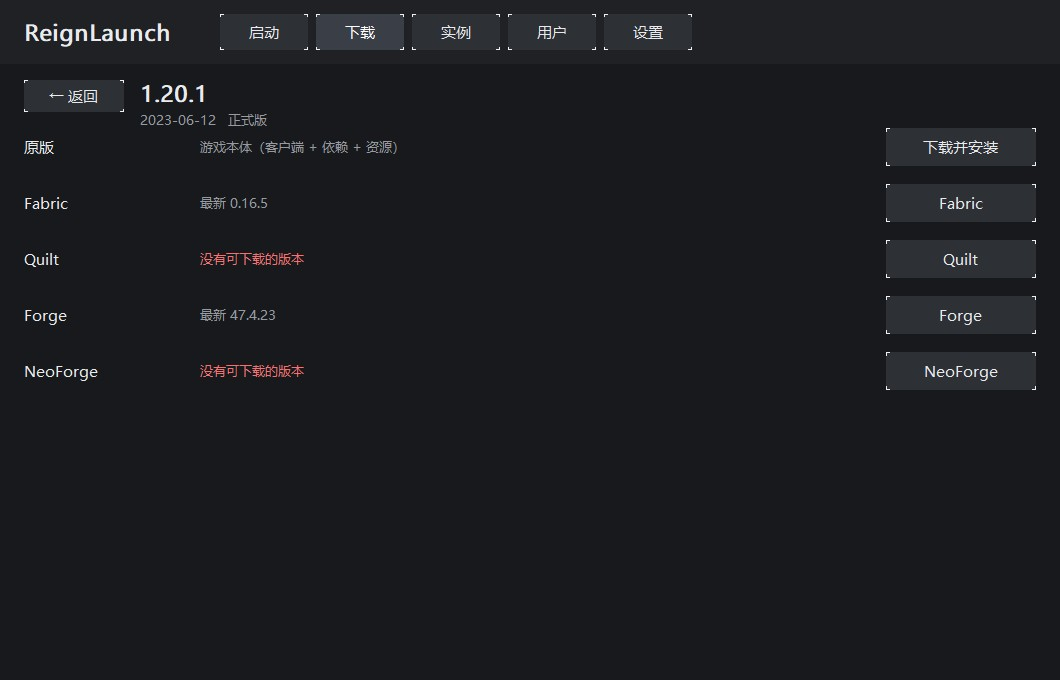
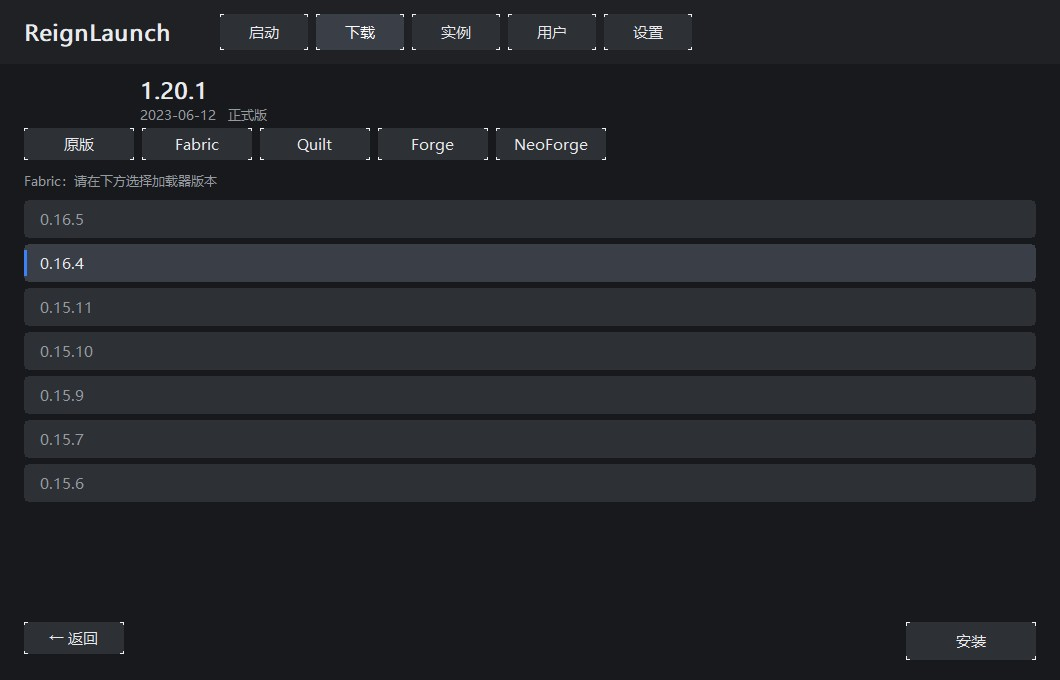
feat: detail page with loader version selection (vanilla = no loader)

diff --git a/src/ReignLaunch.cpp b/src/ReignLaunch.cpp
@@ -127,7 +127,7 @@ static HWND hLblJava, hEdJava, hBtnAutoJava, hBtnBrowseJava, hBtnJavaDrop;
 static HWND hLblMem, hEdMem, hEdName, hLblName, hBtnSave, hBtnIso, hEdThreads, hEdJvm, hEdGame, hBtnSource, hBtnFull;
 static HWND hBtnUpdate;
 static HWND hBtnDlVanilla, hBtnDlFabric, hBtnDlQuilt, hBtnDlForge, hBtnDlNeo;
-static HWND hBtnDlF0, hBtnDlF1, hBtnDlF2, hBtnDlF3, hEdSearch, hBtnDlBack;
+static HWND hBtnDlF0, hBtnDlF1, hBtnDlF2, hBtnDlF3, hEdSearch, hBtnDlBack, hBtnDlInstall;
 
 struct McVer { std::string id, type, url, date; };
 static std::vector<McVer> g_mcVers;
@@ -141,6 +141,11 @@ static std::atomic<int> g_ldState[4] = { {0}, {0}, {0}, {0} };
 static std::wstring g_ldVer[4];
 static void FetchLoadersThread();
 static std::string g_dlDetailMc;
+static int g_dlLoader = 0;              // 0=原版 1=Fabric 2=Quilt 3=Forge 4=NeoForge
+static std::vector<std::string> g_ldVers;   // 当前加载器的可选版本
+static int g_ldSel = -1;
+static std::atomic<int> g_ldVersState{ 0 }; // 0未取 1取中 2成功 3失败
+static void FetchLoaderVersThread();
 static void RebuildDlView();
 static void FetchManifestThread();
 static bool IsAprilFools(const McVer& v);
@@ -1682,14 +1687,17 @@ static void LayoutControls() {
             MoveWindow(hBtnDlF3, tx0, ty0, tw, Scale(32), TRUE);
             MoveWindow(hEdSearch, g_ly.content.right - Scale(24) - Scale(240), ty0, Scale(240), Scale(30), TRUE);
 
-            int dbx = g_ly.content.right - Scale(24) - Scale(150);
-            int dby0 = g_ly.content.top + Scale(64);
-            MoveWindow(hBtnDlVanilla, dbx, dby0 + Scale(56) * 0, Scale(150), Scale(38), TRUE);
-            MoveWindow(hBtnDlFabric,  dbx, dby0 + Scale(56) * 1, Scale(150), Scale(38), TRUE);
-            MoveWindow(hBtnDlQuilt,   dbx, dby0 + Scale(56) * 2, Scale(150), Scale(38), TRUE);
-            MoveWindow(hBtnDlForge,   dbx, dby0 + Scale(56) * 3, Scale(150), Scale(38), TRUE);
-            MoveWindow(hBtnDlNeo,     dbx, dby0 + Scale(56) * 4, Scale(150), Scale(38), TRUE);
-            MoveWindow(hBtnDlBack, g_ly.content.left + Scale(24), g_ly.content.top + Scale(16), Scale(100), Scale(32), TRUE);
+            int dby = g_ly.content.top + Scale(64);
+            int dbw = Scale(110), dbg = Scale(8);
+            int dbx = g_ly.content.left + Scale(24);
+            MoveWindow(hBtnDlVanilla, dbx, dby, dbw, Scale(32), TRUE); dbx += dbw + dbg;
+            MoveWindow(hBtnDlFabric,  dbx, dby, dbw, Scale(32), TRUE); dbx += dbw + dbg;
+            MoveWindow(hBtnDlQuilt,   dbx, dby, dbw, Scale(32), TRUE); dbx += dbw + dbg;
+            MoveWindow(hBtnDlForge,   dbx, dby, dbw, Scale(32), TRUE); dbx += dbw + dbg;
+            MoveWindow(hBtnDlNeo,     dbx, dby, dbw, Scale(32), TRUE);
+            MoveWindow(hBtnDlInstall, g_ly.content.right - Scale(24) - Scale(130),
+                       g_ly.content.bottom - Scale(58), Scale(130), Scale(38), TRUE);
+            MoveWindow(hBtnDlBack, g_ly.content.left + Scale(24), g_ly.content.bottom - Scale(58), Scale(100), Scale(32), TRUE);
 
         }
     }
@@ -1702,6 +1710,7 @@ static void SyncDownloadControls() {
     int showDl  = (onDl && !g_dlDetail) ? SW_SHOW : SW_HIDE;
     int showDet = (onDl &&  g_dlDetail) ? SW_SHOW : SW_HIDE;
     ShowWindow(hBtnDlBack, showDet);
+    ShowWindow(hBtnDlInstall, showDet);
     ShowWindow(hBtnDlF0, showDl);
     ShowWindow(hBtnDlF1, showDl);
     ShowWindow(hBtnDlF2, showDl);
@@ -2219,6 +2228,40 @@ static void InstallVersionThread(std::string id, std::string url) {
         PostMessageW(g_hwnd, WM_APP_DONE, 0, 0);
     }
 }
+// ---------------- 详情页：加载器版本列表 ----------------
+static void FetchLoaderVersThread() {
+    int kind = g_dlLoader;
+    g_ldVersState = 1;
+    g_ldVers.clear();
+    g_ldSel = -1;
+
+    std::string mc = g_dlDetailMc;
+    std::string url;
+    if (kind == 1) url = "https://bmclapi2.bangbang93.com/fabric-meta/v2/versions/loader/" + mc;
+    else if (kind == 2) url = "https://meta.quiltmc.org/v3/versions/loader/" + mc;
+    else if (kind == 3) url = "https://bmclapi2.bangbang93.com/forge/minecraft/" + mc;
+    else if (kind == 4) url = "https://bmclapi2.bangbang93.com/neoforge/list/" + mc;
+    else { g_ldVersState = 2; if (g_hwnd) PostMessageW(g_hwnd, WM_APP_DONE, 0, 0); return; }
+
+    std::vector<unsigned char> d;
+    std::string e;
+    if (!HttpRequest(url, "GET", "", "", d, e)) {
+        g_ldVersState = 3;
+        if (g_hwnd) PostMessageW(g_hwnd, WM_APP_DONE, 0, 0);
+        return;
+    }
+    json j = json::parse(std::string(d.begin(), d.end()), nullptr, false);
+    if (j.is_array()) {
+        for (auto& x : j) {
+            std::string v;
+            if (kind == 1 || kind == 2) v = x["loader"].value("version", std::string());
+            else v = x.value("version", std::string());
+            if (!v.empty()) g_ldVers.push_back(v);
+        }
+    }
+    g_ldVersState = 2;   // 2=成功（空列表由绘制层显示"没有可下载的版本"）
+    if (g_hwnd) PostMessageW(g_hwnd, WM_APP_DONE, 0, 0);
+}
 // ---------------- 详情页：加载器可用性 ----------------
 static void FetchLoadersThread() {
     std::string mc = g_dlDetailMc;
@@ -2325,7 +2368,7 @@ static std::string HttpGetString(const std::string& url, std::string& err) {
 }
 
 // Fabric / Quilt：拿 loader 列表 -> profile json -> 落到 versions/<id>
-static void InstallMetaLoaderThread(std::string mc, bool quilt) {
+static void InstallMetaLoaderThread(std::string mc, bool quilt, std::string wantVer = "") {
     g_status = L"正在获取 " + std::wstring(quilt ? L"Quilt" : L"Fabric") + L" 加载器列表…";
 
     std::string url = quilt
@@ -2339,7 +2382,8 @@ static void InstallMetaLoaderThread(std::string mc, bool quilt) {
     json j = json::parse(body, nullptr, false);
     if (!j.is_array() || j.empty()) { g_status = L"该版本没有可用的加载器"; if (g_hwnd) PostMessageW(g_hwnd, WM_APP_DONE, 0, 0); return; }
 
-    std::string lv = j[0]["loader"].value("version", std::string());
+    std::string lv = wantVer;
+    if (lv.empty()) lv = j[0]["loader"].value("version", std::string());
     if (lv.empty()) { g_status = L"解析加载器版本失败"; if (g_hwnd) PostMessageW(g_hwnd, WM_APP_DONE, 0, 0); return; }
 
     g_status = L"正在获取 profile（" + U8ToW(lv) + L"）…";
@@ -2372,7 +2416,7 @@ static void InstallMetaLoaderThread(std::string mc, bool quilt) {
 }
 
 // Forge / NeoForge：下载 installer 并执行 --installClient
-static void InstallInstallerThread(std::string mc, bool neo) {
+static void InstallInstallerThread(std::string mc, bool neo, std::string wantVer = "") {
     std::string listUrl = neo
         ? "https://bmclapi2.bangbang93.com/neoforge/list/" + mc
         : "https://bmclapi2.bangbang93.com/forge/minecraft/" + mc;
@@ -2874,42 +2918,80 @@ static void PaintMain(HDC dc, int w, int h) {
     }
     else if (g_page == PAGE_DOWNLOAD) {
         if (g_dlDetail) {
-            if (g_dlSel >= 0 && g_dlSel < (int)g_dlView.size()) {
-                const McVer& v = g_mcVers[g_dlView[g_dlSel]];
-                int x = g_ly.content.left + Scale(140);
-                int y = g_ly.content.top + Scale(12);
-
-                RECT t1 = { x, y, g_ly.content.right - Scale(200), y + Scale(34) };
-                DrawTextIn(dc, U8ToW(v.id), t1, C_TEXT, g_fTitle);
-
-                std::wstring sub = U8ToW(v.date);
-                if (!sub.empty()) sub += L"   ";
-                sub += (v.type == "release") ? L"正式版" : (v.type == "snapshot") ? L"快照" :
-                       (v.type == "old_beta") ? L"远古 Beta" : L"远古 Alpha";
-                RECT t2 = { x, y + Scale(32), g_ly.content.right - Scale(200), y + Scale(56) };
-                DrawTextIn(dc, sub, t2, C_DIM, g_fSmall);
-
-                const wchar_t* names[5] = { L"原版", L"Fabric", L"Quilt", L"Forge", L"NeoForge" };
-                int baseY = g_ly.content.top + Scale(64);
-                for (int i = 0; i < 5; ++i) {
-                    int ry = baseY + Scale(56) * i;
-                    RECT nm = { g_ly.content.left + Scale(24), ry, g_ly.content.left + Scale(200), ry + Scale(38) };
-                    DrawTextIn(dc, names[i], nm, C_TEXT, g_fUi);
-
-                    RECT ir = { g_ly.content.left + Scale(200), ry, g_ly.content.right - Scale(200), ry + Scale(38) };
-                    if (i == 0) {
-                        DrawTextIn(dc, L"游戏本体（客户端 + 依赖 + 资源）", ir, C_DIM, g_fSmall);
-                    } else {
-                        int st = g_ldState[i - 1].load();
-                        std::wstring info = (st == 0) ? L"查询中…"
-                                          : (st == 1) ? (L"最新 " + g_ldVer[i - 1])
-                                          : L"没有可下载的版本";
-                        DrawTextIn(dc, info, ir, (st == 2) ? C_ERR : C_DIM, g_fSmall);
-                    }
-                }
-            } else {
-                RECT e = { g_ly.content.left + Scale(24), g_ly.content.top + Scale(60), g_ly.content.right - Scale(24), g_ly.content.top + Scale(100) };
+            if (g_dlSel < 0 || g_dlSel >= (int)g_dlView.size()) {
+                RECT e = { g_ly.content.left + Scale(24), g_ly.content.top + Scale(60),
+                           g_ly.content.right - Scale(24), g_ly.content.top + Scale(100) };
                 DrawTextIn(dc, L"未选中版本，点「返回」重新选择", e, C_DIM, g_fSmall);
+                return;
+            }
+
+            const McVer& v = g_mcVers[g_dlView[g_dlSel]];
+
+            // 标题
+            int hx = g_ly.content.left + Scale(140);
+            int hy = g_ly.content.top + Scale(10);
+            RECT t1 = { hx, hy, g_ly.content.right - Scale(24), hy + Scale(32) };
+            DrawTextIn(dc, U8ToW(v.id), t1, C_TEXT, g_fTitle);
+
+            std::wstring sub = U8ToW(v.date);
+            if (!sub.empty()) sub += L"   ";
+            sub += (v.type == "release") ? L"正式版" : (v.type == "snapshot") ? L"快照" :
+                   (v.type == "old_beta") ? L"远古 Beta" : L"远古 Alpha";
+            RECT t2 = { hx, hy + Scale(30), g_ly.content.right - Scale(24), hy + Scale(52) };
+            DrawTextIn(dc, sub, t2, C_DIM, g_fSmall);
+
+            // 加载器选择行（按钮是控件，这里只画提示）
+            const wchar_t* hint = (g_dlLoader == 0)
+                ? L"原版：不安装任何加载器"
+                : (g_dlLoader == 1) ? L"Fabric：请在下方选择加载器版本"
+                : (g_dlLoader == 2) ? L"Quilt：请在下方选择加载器版本"
+                : (g_dlLoader == 3) ? L"Forge：请在下方选择加载器版本"
+                                    : L"NeoForge：请在下方选择加载器版本";
+            RECT hr = { g_ly.content.left + Scale(24), g_ly.content.top + Scale(104),
+                        g_ly.content.right - Scale(24), g_ly.content.top + Scale(130) };
+            DrawTextIn(dc, hint, hr, C_DIM, g_fSmall);
+
+            // 版本列表
+            int listTop  = g_ly.content.top + Scale(136);
+            int listBot  = g_ly.content.bottom - Scale(70);
+
+            if (g_dlLoader == 0) {
+                RECT e = { g_ly.content.left + Scale(24), listTop + Scale(10),
+                           g_ly.content.right - Scale(24), listTop + Scale(46) };
+                DrawTextIn(dc, L"选中「原版」时不安装加载器，直接点右下角安装即可。", e, C_DIM, g_fSmall);
+            } else if (g_ldVersState.load() == 0 || g_ldVersState.load() == 1) {
+                RECT e = { g_ly.content.left + Scale(24), listTop + Scale(10),
+                           g_ly.content.right - Scale(24), listTop + Scale(46) };
+                DrawTextIn(dc, L"正在获取加载器版本…", e, C_DIM, g_fSmall);
+            } else if (g_ldVersState.load() == 3) {
+                RECT e = { g_ly.content.left + Scale(24), listTop + Scale(10),
+                           g_ly.content.right - Scale(24), listTop + Scale(46) };
+                DrawTextIn(dc, L"获取失败，检查网络后重试", e, C_ERR, g_fSmall);
+            } else if (g_ldVers.empty()) {
+                RECT e = { g_ly.content.left + Scale(24), listTop + Scale(10),
+                           g_ly.content.right - Scale(24), listTop + Scale(46) };
+                DrawTextIn(dc, L"没有可下载的版本", e, C_ERR, g_fSmall);
+            } else {
+                int itemH = Scale(44);
+                int yy = listTop - g_listScroll;
+                for (size_t i = 0; i < g_ldVers.size(); ++i) {
+                    RECT item = { g_ly.content.left + Scale(24), yy,
+                                  g_ly.content.right - Scale(24), yy + itemH - Scale(6) };
+                    if (item.bottom > listTop && item.top < listBot) {
+                        if (item.bottom > listBot) item.bottom = listBot;
+                        bool sel = ((int)i == g_ldSel);
+                        FillRoundRect(dc, item, 8, sel ? C_CARD_SEL : C_CARD);
+                        RECT tx = item; tx.left += Scale(16);
+                        DrawTextIn(dc, U8ToW(g_ldVers[i]), tx, sel ? C_TEXT : C_DIM, g_fUi);
+                        if (sel) {
+                            RECT bar = { item.left, item.top + Scale(6), item.left + Scale(3), item.bottom - Scale(6) };
+                            HBRUSH b = CreateSolidBrush(C_ACCENT2);
+                            FillRect(dc, &bar, b);
+                            DeleteObject(b);
+                        }
+                    }
+                    yy += itemH;
+                }
             }
             return;
         }
@@ -3229,7 +3311,7 @@ static LRESULT CALLBACK MainProc(HWND hwnd, UINT msg, WPARAM wp, LPARAM lp) {
         hBtnTabAbout    = MakeBtn(hwnd, L"关于", ID_TAB_ABOUT);
         hBtnTabInst     = MakeBtn(hwnd, L"实例", ID_TAB_INST);
         hBtnTabDl       = MakeBtn(hwnd, L"下载", ID_TAB_DL);
-        hBtnDlVanilla = MakeBtn(hwnd, L"下载并安装", ID_DL_VANILLA);
+        hBtnDlVanilla = MakeBtn(hwnd, L"原版", ID_DL_VANILLA);
         hBtnDlFabric  = MakeBtn(hwnd, L"Fabric",   ID_DL_FABRIC);
         hBtnDlQuilt   = MakeBtn(hwnd, L"Quilt",    ID_DL_QUILT);
         hBtnDlForge   = MakeBtn(hwnd, L"Forge",    ID_DL_FORGE);
@@ -3244,6 +3326,7 @@ static LRESULT CALLBACK MainProc(HWND hwnd, UINT msg, WPARAM wp, LPARAM lp) {
         SendMessageW(hEdSearch, WM_SETFONT, (WPARAM)g_fUi, TRUE);
         SendMessageW(hEdSearch, EM_SETCUEBANNER, 0, (LPARAM)L"搜索版本，如 1.20.1");
         hBtnDlBack    = MakeBtn(hwnd, L"← 返回", ID_DL_BACK);
+        hBtnDlInstall = MakeBtn(hwnd, L"安装", ID_DL_INSTALL);
 
         hBtnLaunch  = MakeBtn(hwnd, L"启动游戏", ID_BTN_LAUNCH);
         hBtnRefresh = MakeBtn(hwnd, L"刷新版本", ID_BTN_REFRESH);
@@ -3402,6 +3485,21 @@ static LRESULT CALLBACK MainProc(HWND hwnd, UINT msg, WPARAM wp, LPARAM lp) {
         }
 
         if (g_page == PAGE_DOWNLOAD) {
+            if (g_dlDetail) {
+                if (g_dlLoader > 0 && !g_ldVers.empty()) {
+                    int itemH0 = Scale(44);
+                    int top0 = g_ly.content.top + Scale(136);
+                    if (pt.y >= top0) {
+                        int idx0 = (pt.y - top0 + g_listScroll) / itemH0;
+                        if (idx0 >= 0 && idx0 < (int)g_ldVers.size()) {
+                            g_ldSel = idx0;
+                            g_status = L"已选择加载器版本：" + U8ToW(g_ldVers[idx0]);
+                            InvalidateRect(hwnd, nullptr, TRUE);
+                        }
+                    }
+                }
+                return 0;
+            }
             if (g_mcVersState.load() == 0) {
                 std::thread(FetchManifestThread).detach();
             } else if (g_mcVersState.load() == 2) {
@@ -3572,51 +3670,53 @@ static LRESULT CALLBACK MainProc(HWND hwnd, UINT msg, WPARAM wp, LPARAM lp) {
         }
 
         case ID_DL_VANILLA: case ID_DL_FABRIC: case ID_DL_QUILT:
-    case ID_DL_FORGE:   case ID_DL_NEO: {
-        if (g_dlSel < 0 || g_dlSel >= (int)g_dlView.size()) {
-            MessageBoxW(hwnd, L"请先在列表里选一个游戏版本。", L"下载", MB_OK | MB_ICONINFORMATION);
+        case ID_DL_FORGE:   case ID_DL_NEO: {
+            int id = (int)(wp & 0xFFFF);
+            int kind = (id == ID_DL_VANILLA) ? 0 : (id == ID_DL_FABRIC) ? 1
+                     : (id == ID_DL_QUILT) ? 2 : (id == ID_DL_FORGE) ? 3 : 4;
+            g_dlLoader = kind;
+            g_ldSel = -1;
+            g_ldVers.clear();
+            g_ldVersState = 0;
+            g_listScroll = 0;
+            if (kind > 0) std::thread(FetchLoaderVersThread).detach();
+            InvalidateRect(hwnd, nullptr, TRUE);
             break;
         }
-        {
-            int idchk = (int)(wp & 0xFFFF);
-            int ldi = (idchk == ID_DL_FABRIC) ? 0 : (idchk == ID_DL_QUILT) ? 1
-                    : (idchk == ID_DL_FORGE) ? 2 : (idchk == ID_DL_NEO) ? 3 : -1;
-            if (ldi >= 0 && g_ldState[ldi].load() != 1) {
-                MessageBoxW(hwnd, L"该版本没有可下载的加载器版本。", L"提示", MB_OK | MB_ICONINFORMATION);
+
+        case ID_DL_INSTALL: {
+            if (g_dlSel < 0 || g_dlSel >= (int)g_dlView.size()) {
+                MessageBoxW(hwnd, L"请先返回列表选择一个游戏版本。", L"下载", MB_OK | MB_ICONINFORMATION);
                 break;
             }
-        }
-        int realIdx = g_dlView[g_dlSel];
-        std::string mc = g_mcVers[realIdx].id;
-        std::string url = g_mcVers[realIdx].url;
-        int id = (int)(wp & 0xFFFF);
-        if (id == ID_DL_VANILLA) (void)url;
+            int realIdx = g_dlView[g_dlSel];
+            std::string mc  = g_mcVers[realIdx].id;
+            std::string url = g_mcVers[realIdx].url;
 
-        if (id == ID_DL_VANILLA) {
-            std::wstring cmsg = L"确定安装原版 " + U8ToW(mc) + L" 吗？";
-            if (MessageBoxW(hwnd, cmsg.c_str(), L"下载原版", MB_YESNO | MB_ICONQUESTION) != IDYES) break;
-            g_status = L"开始安装：" + U8ToW(mc);
-            std::thread(InstallVersionThread, mc, url).detach();
-        } else if (id == ID_DL_FABRIC) {
-            std::wstring cmsg = L"为 " + U8ToW(mc) + L" 安装 Fabric？\n会自动选最新加载器。";
-            if (MessageBoxW(hwnd, cmsg.c_str(), L"安装 Fabric", MB_YESNO | MB_ICONQUESTION) != IDYES) break;
-            std::thread(InstallMetaLoaderThread, mc, false).detach();
-        } else if (id == ID_DL_QUILT) {
-            std::wstring cmsg = L"为 " + U8ToW(mc) + L" 安装 Quilt？\n会自动选最新加载器。";
-            if (MessageBoxW(hwnd, cmsg.c_str(), L"安装 Quilt", MB_YESNO | MB_ICONQUESTION) != IDYES) break;
-            std::thread(InstallMetaLoaderThread, mc, true).detach();
-        } else if (id == ID_DL_FORGE) {
-            std::wstring cmsg = L"为 " + U8ToW(mc) + L" 安装 Forge？\n会下载并运行官方安装器，可能需要几分钟。";
-            if (MessageBoxW(hwnd, cmsg.c_str(), L"安装 Forge", MB_YESNO | MB_ICONQUESTION) != IDYES) break;
-            std::thread(InstallInstallerThread, mc, false).detach();
-        } else {
-            std::wstring cmsg = L"为 " + U8ToW(mc) + L" 安装 NeoForge？\n会下载并运行官方安装器，可能需要几分钟。";
-            if (MessageBoxW(hwnd, cmsg.c_str(), L"安装 NeoForge", MB_YESNO | MB_ICONQUESTION) != IDYES) break;
-            std::thread(InstallInstallerThread, mc, true).detach();
+            if (g_dlLoader == 0) {
+                std::wstring cmsg = L"安装原版 " + U8ToW(mc) + L"（不安装加载器）？";
+                if (MessageBoxW(hwnd, cmsg.c_str(), L"下载原版", MB_YESNO | MB_ICONQUESTION) != IDYES) break;
+                g_status = L"开始安装：" + U8ToW(mc);
+                std::thread(InstallVersionThread, mc, url).detach();
+            } else {
+                if (g_ldSel < 0 || g_ldSel >= (int)g_ldVers.size()) {
+                    MessageBoxW(hwnd, L"请先在列表里选择一个加载器版本。", L"提示", MB_OK | MB_ICONINFORMATION);
+                    break;
+                }
+                std::string lv = g_ldVers[g_ldSel];
+                std::wstring cmsg = L"为 " + U8ToW(mc) + L" 安装 " +
+                                    (g_dlLoader == 1 ? L"Fabric " : g_dlLoader == 2 ? L"Quilt " :
+                                     g_dlLoader == 3 ? L"Forge " : L"NeoForge ") +
+                                    U8ToW(lv) + L"？";
+                if (MessageBoxW(hwnd, cmsg.c_str(), L"安装加载器", MB_YESNO | MB_ICONQUESTION) != IDYES) break;
+                if (g_dlLoader == 1)      std::thread(InstallMetaLoaderThread, mc, false, lv).detach();
+                else if (g_dlLoader == 2) std::thread(InstallMetaLoaderThread, mc, true, lv).detach();
+                else if (g_dlLoader == 3) std::thread(InstallInstallerThread, mc, false, lv).detach();
+                else                      std::thread(InstallInstallerThread, mc, true, lv).detach();
+            }
+            InvalidateRect(hwnd, nullptr, TRUE);
+            break;
         }
-        InvalidateRect(hwnd, nullptr, TRUE);
-        break;
-    }
 
     case ID_BTN_UPDATE:
         g_status = L"正在检查更新…";
